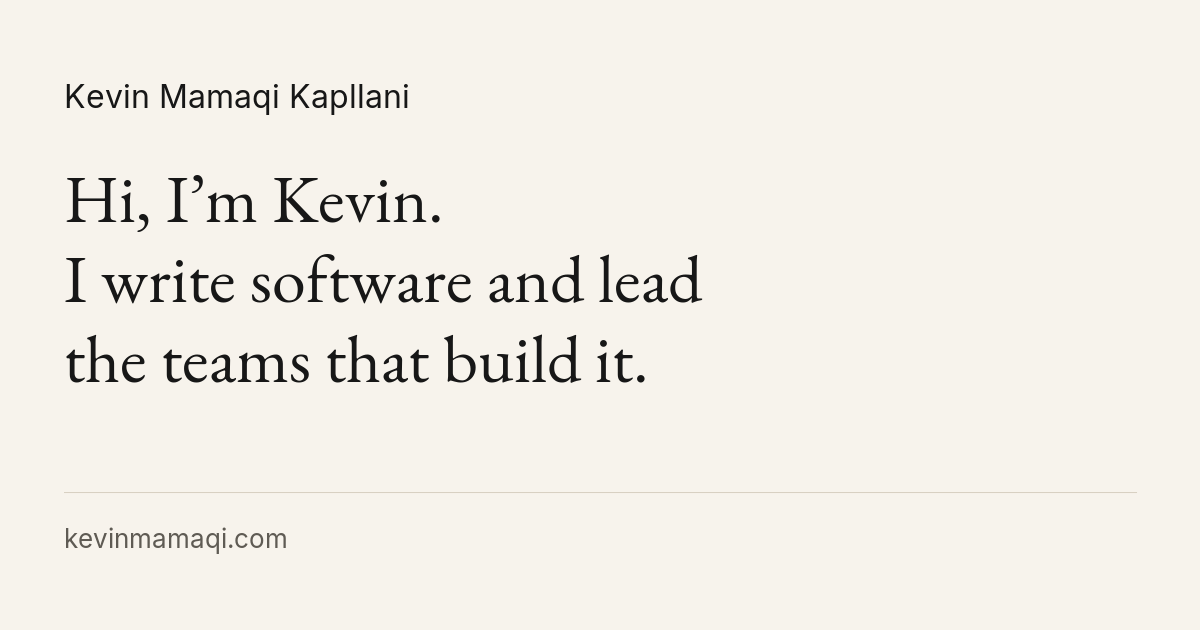
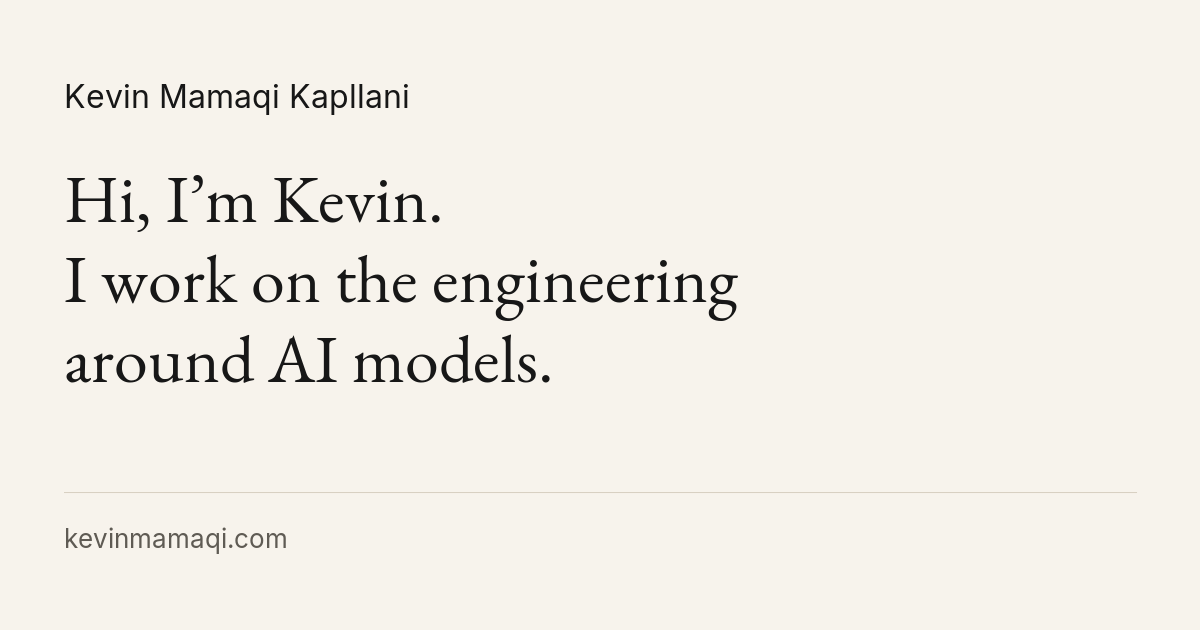
Open the hero with the role and Kevin's own introduction
Restore the Engineering Manager & Tech Lead eyebrow, then introduce Kevin
in his own voice: engineering manager at Eachlabs, leading teams for over
five years, still hands-on, building the harness his coding agents work
in, and interested in inference, model routing and specialized models,
linked to the SF Tech Week note those themes come from. Align the page
title, description, social-card alt text and the rendered social card.

Changed region(s): [[0.1233, 0.3921, 0.6167, 0.5127], [0.0308, 0.5127, 0.5242, 0.6032]]

diff --git a/src/content/positioning.ts b/src/content/positioning.ts
@@ -1,7 +1,8 @@
 // Work lines, method and contact copy follow Kevin's 30 October 2026
 // simplification brief, which supersedes the 15 October brief: plain first
 // person, no jargon above the fold, at most two public numbers. Kevin then
-// asked for a hero that introduces him first and his roles second.
+// asked for a hero that opens with his role and introduces him in his own
+// voice, tied to the harness and inference themes in his SF Tech Week note.
 // The earlier Eachlabs dates and contract framing were confirmed in chat.
 // Public scale uses Kevin's approved monthly execution and catalog figures.
 // Keep internal migration and test measurements qualitative.
@@ -20,9 +21,9 @@ export const NAV = [
   { label: "Contact", href: "#contact" },
 ];
 
-export const HEADLINE = "Hi, I’m Kevin. I write software and lead the teams that build it.";
-export const DESCRIPTION = "Hi, I’m Kevin. I write software and lead the teams that build it. These days I’m at Eachlabs, where we build the APIs behind 700+ AI models.";
-export const TITLE = "Kevin Mamaqi Kapllani — software engineer in Barcelona";
+export const HEADLINE = "Hi, I’m Kevin. I work on the engineering around AI models.";
+export const DESCRIPTION = "Hi, I’m Kevin. I work on the engineering around AI models: engineering manager at Eachlabs, where my team builds the APIs behind 700+ AI models.";
+export const TITLE = "Kevin Mamaqi Kapllani — Engineering Manager & Tech Lead · Barcelona";
 export const REVIEW_NOTES = [
   "paper links for the 2026 research manuscripts",
   "Local copies of the two LinkedIn articles require source Markdown; retain their existing links until supplied.",

diff --git a/src/page.tsx b/src/page.tsx
@@ -82,10 +82,10 @@ function Hero() {
     <section id="top" className="hero">
       <img className="hero-photo" src="/notes/ace-technical-interview-mwc-2024/images/kevin-speaking-to-audience.webp" width="1800" height="1200" alt="Kevin Mamaqi speaking at MWC Barcelona 2024" fetchPriority="high" />
       <div className="hero-intro">
-        <p className="eyebrow">Software engineer · Barcelona</p>
+        <p className="eyebrow">Engineering Manager &amp; Tech Lead · Barcelona</p>
         <h1>{HEADLINE}</h1>
         <div className="hero-motif" aria-hidden="true"><span /><span /><span /></div>
-        <p className="hero-copy">These days I’m at Eachlabs, where we build the APIs behind 700+ AI models. I manage a team of five, own our tech stack, and still write code every day. Before that I led teams building maritime and healthcare software.</p>
+        <p className="hero-copy">I’m an engineering manager at Eachlabs, where my team builds the APIs behind 700+ AI models, and I’ve been leading teams for over five years. I’m still hands-on: I write code every day and build the harness our coding agents work in. Lately I’m most interested in inference, model routing and specialized models, the themes that kept coming up at <a href="/notes/sf-tech-week-2026/">SF Tech Week</a>.</p>
         <div className="hero-actions">
           <a className="text-link" href={LINKS.cv}>Read my CV <Arrow /></a>
           <a className="text-link" href="#contact">Get in touch</a>

diff --git a/src/template.ts b/src/template.ts
@@ -36,7 +36,7 @@ export function html({ title, description, body, css, url = "https://kevinmamaqi
 <meta property="og:image" content="${escape(imageUrl)}" />
 <meta property="og:image:width" content="1200" />
 <meta property="og:image:height" content="630" />
-<meta property="og:image:alt" content="Kevin Mamaqi Kapllani — software engineer in Barcelona." />
+<meta property="og:image:alt" content="Kevin Mamaqi Kapllani — Engineering Manager &amp; Tech Lead." />
 <meta property="og:locale" content="en_GB" />
 <meta property="og:site_name" content="Kevin Mamaqi Kapllani" />
 
@@ -44,7 +44,7 @@ export function html({ title, description, body, css, url = "https://kevinmamaqi
 <meta name="twitter:title" content="${escape(title)}" />
 <meta name="twitter:description" content="${escape(description)}" />
 <meta name="twitter:image" content="${escape(imageUrl)}" />
-<meta name="twitter:image:alt" content="Kevin Mamaqi Kapllani — software engineer in Barcelona." />
+<meta name="twitter:image:alt" content="Kevin Mamaqi Kapllani — Engineering Manager &amp; Tech Lead." />
 ${reviewComments}
 
 <link rel="preconnect" href="https://fonts.googleapis.com" />

diff --git a/src/styles.css b/src/styles.css
@@ -92,6 +92,16 @@ ul, ol {
   line-height: 1.55;
 }
 
+.hero-copy a {
+  color: var(--ink);
+  text-decoration: underline;
+  text-decoration-color: var(--line);
+  text-underline-offset: 4px;
+  transition: text-decoration-color 0.2s ease;
+}
+
+.hero-copy a:hover { text-decoration-color: currentColor; }
+
 .hero-actions {
   display: flex;
   flex-wrap: wrap;

diff --git a/scripts/render-social-card.py b/scripts/render-social-card.py
@@ -13,7 +13,7 @@ root = Path(__file__).resolve().parents[1]
 css = (root / "public/styles/base.css").read_text()
 colors = {key: re.search(r"--" + key + r":\s*([^;]+);", css).group(1).strip()
           for key in ("paper", "ink", "line", "muted")}
-lines = ["Hi, I’m Kevin.", "I write software and lead", "the teams that build it."]
+lines = ["Hi, I’m Kevin.", "I work on the engineering", "around AI models."]
 headline = json.loads(re.search(r'HEADLINE = ("[^"]+")',
                                (root / "src/content/positioning.ts").read_text()).group(1))
 assert " ".join(lines) == headline, "Update the social card line breaks for the new headline."
